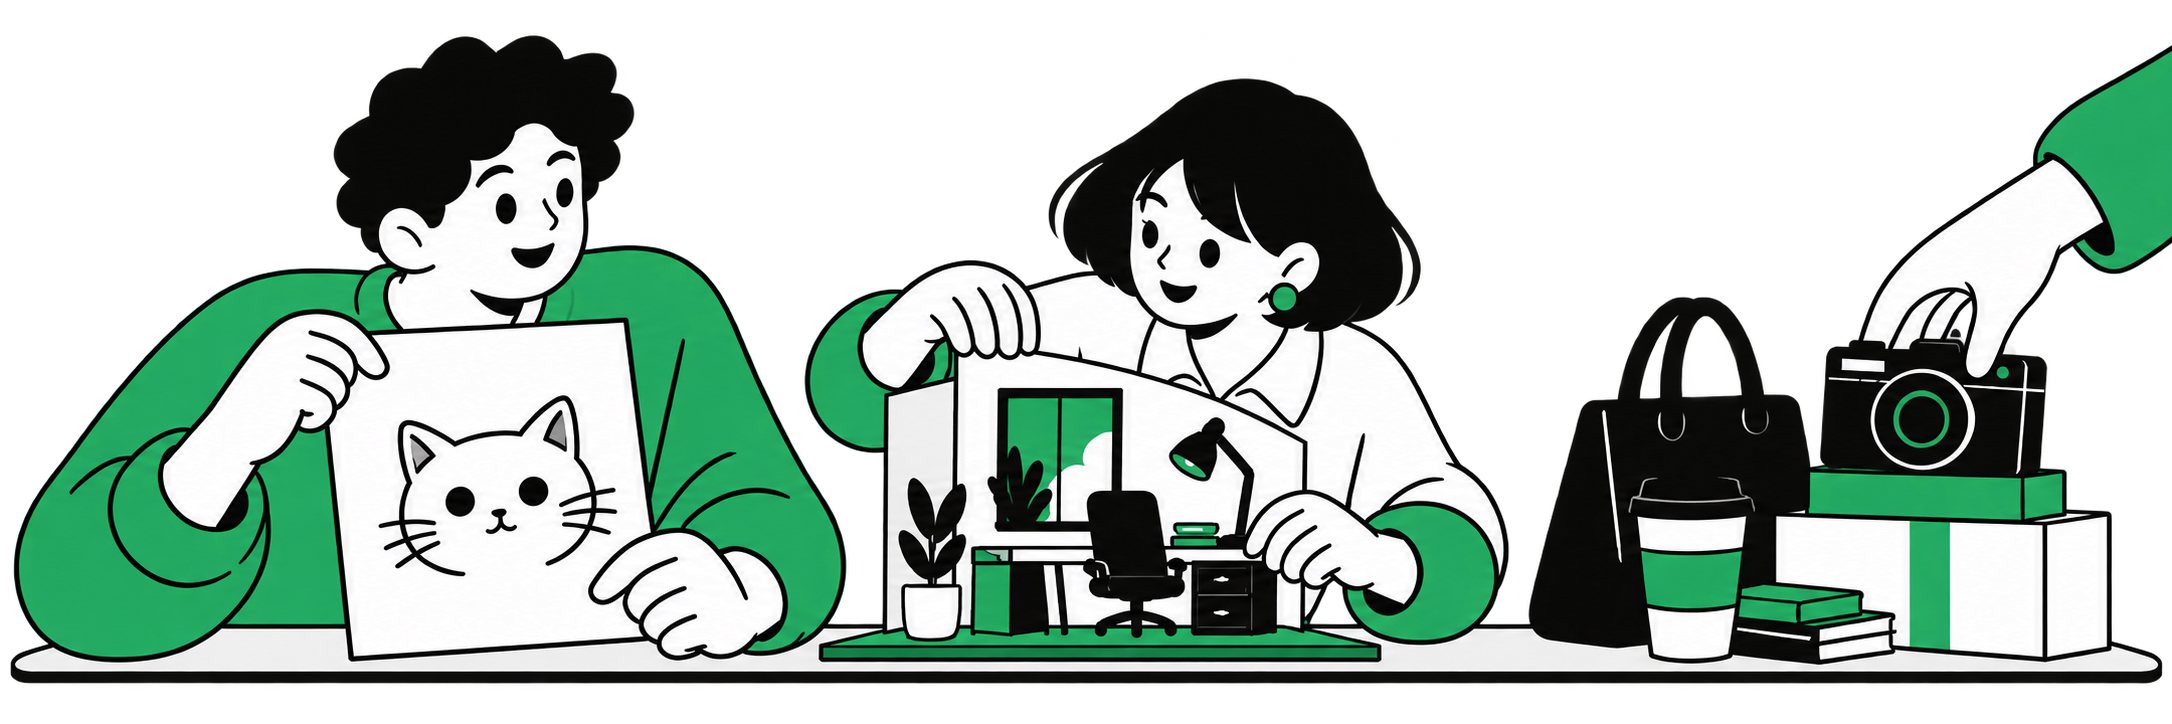
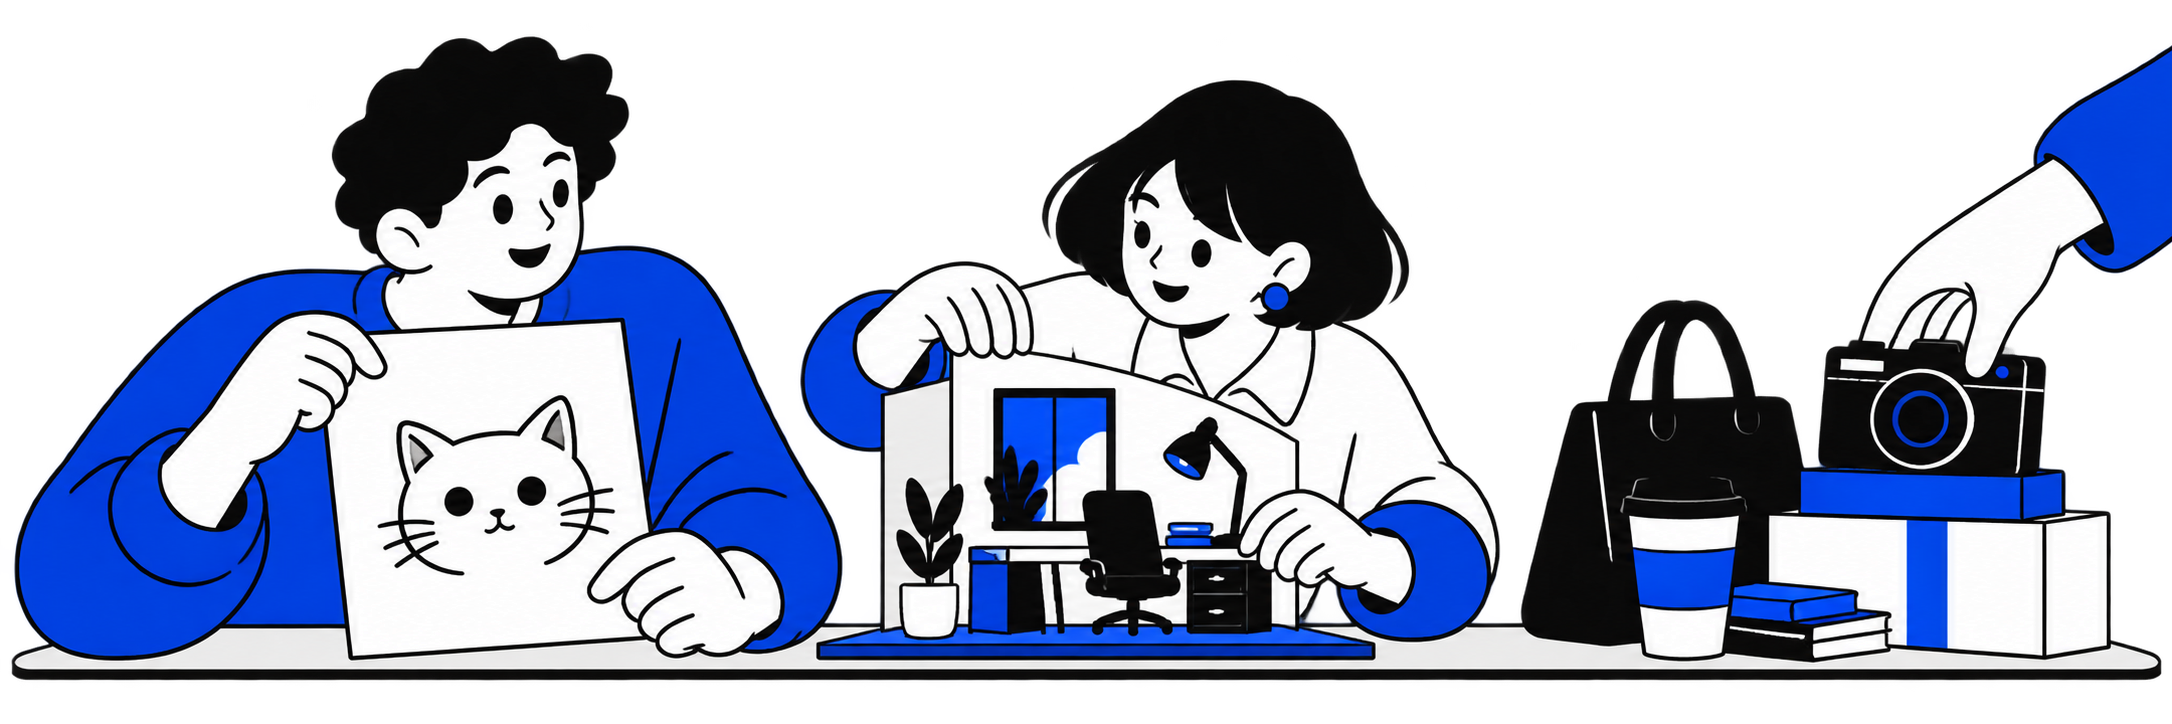
Restore cobalt-blue default and add prior slide case gallery

diff --git a/README.md b/README.md
@@ -6,7 +6,18 @@
 
 ## 先看实际效果
 
-下面三张是实际幻灯片的渲染截图，来自默认角色样页，展示的是完成排版后的页面。README 中的图片本身是静态预览。
+### 蓝色整套案例：AI 视频入门
+
+默认配色为钴蓝 `#1246F2`，配套母图、提示词与主题配置同步采用蓝色。下面从之前制作的16页稿中选出9页组成案例图组；只展示成品页面，没有发布原始账号界面、个人 IP 或真人照片。案例是历史实际输出，保留当时版式，并非所有页面都采用当前最新布局规则。
+
+![蓝色PPT案例九页图组](docs/images/blue-case/overview.png)
+
+[查看9页大图与案例说明](docs/blue-case.md)。正文、数字、框线在制作时使用原生对象；仓库里的预览图为静态展示。
+
+### 绿色配色示例
+
+
+下面三张是此前绿色主题下实际幻灯片的渲染截图，来自内置角色样页，展示的是完成排版后的页面。README 中的图片本身是静态预览。
 
 ### 大数字与内容分组
 
@@ -22,11 +33,11 @@
 
 ### 截图、样机与对话标注
 
-真实页面截图按比例铺满薄 MacBook 外框，对话框、关键词高亮和箭头引导检查重点，角色从页边进入。
+本项目样页截图按比例铺满薄 MacBook 外框，对话框、关键词高亮和箭头引导检查重点，角色从页边进入。
 
 ![MacBook 截图与角色对话标注](docs/images/03-screenshot-and-callout.jpg)
 
-这些样页展示默认 2D 插画路线。自定义 IP、3D 和真人模式的效果取决于所用生图模型、参考素材与目标工具；本页未提供这几种路线的公开成品示例。
+这些样页展示内置 2D 插画路线；绿色是配色示例，当前无输入默认色为蓝色。自定义 IP、3D 和真人模式的效果取决于所用生图模型、参考素材与目标工具；本页未提供这几种路线的公开成品示例。
 
 ## 安装
 
@@ -57,7 +68,7 @@ https://github.com/Kianzzz/zhouxing-ip-ppt
 ## 能做什么
 
 - **按内容选布局**：大数字、图文交错、多框分组、比较、对话、设备截图；支持全身、半身、近景、局部与多人互动。
-- **按主色建立配色**：优先用户指定，否则取角色最大面积彩色主色，配合同色深浅阶及中性色；无输入时用内置草木绿。
+- **按主色建立配色**：优先用户指定，否则取角色最大面积彩色主色，配合同色深浅阶及中性色；无输入时用内置钴蓝 `#1246F2`。
 - **设计图文关系**：为元素建立对齐对应；角色可扶框、指认、遮挡或有意出血，动作须解释本页内容。
 - **保留可编辑结构**：文字、数字、形状和标注为原生元素；角色与截图可移动、缩放和替换，图片内部并非逐部位可编辑。
 - **套入真实截图**：内置 iPhone 与薄屏 MacBook 外框，默认铺满，支持源裁切和标注坐标映射。

diff --git a/references/design-system.md b/references/design-system.md
@@ -4,7 +4,7 @@
 
 ## 角色驱动的色板与背景节奏
 
-色板按“用户明确指定 → 角色可见区域中面积最大的彩色主色 → 内容与视觉参考 → 无输入时的内置绿系”选择。`assets/default-theme.json` 的草木绿 `#28A85B` 仅是无角色/配色输入的2D默认候选。蓝衣真人可用蓝色作为文字、背景和场景的连接色，不给人物强行换衣，也不把真实截图染色。分析时排除透明背景、参考板底色、肤色与黑白灰，将光影造成的近似色归并到同一色相家族；只从最大面积彩色家族取主色。多人或多色IP也遵循这一依据，不从花朵、腮红等小面积细节追加辅助色。无明显彩色区域时用中性色并按内容/参考选一个强调色。记录所选区域和主色依据，不把视觉估计说成精确像素占比。
+色板按“用户明确指定 → 角色可见区域中面积最大的彩色主色 → 内容与视觉参考 → 无输入时的内置蓝系”选择。`assets/default-theme.json` 的钴蓝 `#1246F2` 仅是无角色/配色输入的2D默认候选。蓝衣真人可用蓝色作为文字、背景和场景的连接色，不给人物强行换衣，也不把真实截图染色。分析时排除透明背景、参考板底色、肤色与黑白灰，将光影造成的近似色归并到同一色相家族；只从最大面积彩色家族取主色。多人或多色IP也遵循这一依据，不从花朵、腮红等小面积细节追加辅助色。无明显彩色区域时用中性色并按内容/参考选一个强调色。记录所选区域和主色依据，不把视觉估计说成精确像素占比。
 
 默认从单一主色建立深浅阶，搭配白、近黑与中性灰；标题/正文优先近黑，强调用主色，浅面用同色系低饱和色。不要把肤色转成米粉底、轮廓色转成棕色正文，再混入另一个橄榄色。需要互补色时必须有内容或用户依据，不能因图片里存在就采入。深底可用主色深阶，正文反白，不机械复制图片的全部颜色。颜色数值在项目中固定；字号较小的文字用足够深浅反差，明亮色主要用于大字、图形或少量重点。摄影角色的衣服也可只承担辅助色，不必全页同色。
 
@@ -90,7 +90,7 @@
 
 ## 整套版式组织
 
-按页面的信息关系选择构图，以下是可组合的语法，不是每套必须集齐的配额；字体、页数和配色按角色与内容确定；绿系仅作无输入时的默认候选，不固定宋体或16页。
+按页面的信息关系选择构图，以下是可组合的语法，不是每套必须集齐的配额；字体、页数和配色按角色与内容确定；蓝系仅作无输入时的默认候选，不固定宋体或16页。
 
 | 页面任务 | 图文关系与景别 | 原生信息组织 |
 |---|---|---|

diff --git a/references/character-workflow.md b/references/character-workflow.md
@@ -2,7 +2,7 @@
 
 ## 默认风格与用户身份
 
-默认 `assets/default-style-reference.png` 是候选编辑插画语言/人物参考：黑白与锚点草木绿 `#28A85B`、概括比例、宽阔轮廓、白纸肤色、简洁五官、稀少线条、平涂。它不是用户已批准的 IP，不把参考图中的两人永远绑定到每页。默认人物可为卷发绿衣创作者、短发白衣协作者，也可按内容选动物/场景主角。
+默认 `assets/default-style-reference.png` 是候选编辑插画语言/人物参考：黑白与钴蓝 `#1246F2`、概括比例、宽阔轮廓、白纸肤色、简洁五官、稀少线条、平涂。它不是用户已批准的 IP，不把参考图中的两人永远绑定到每页。默认人物可为卷发蓝衣创作者、短发白衣协作者，也可按内容选动物/场景主角。
 
 用户提供卡通/3D/像素图时，保留身份、比例、材质和媒介；真人照片保持写实身份、年龄特征与衣着。场景风格与身份分别控制。多图标注每张的用途（身份/风格/场景），不混淆角色母图与 PPT 风格截图。
 
@@ -47,7 +47,7 @@
 ```text
 资产用于可编辑 PPT，只生成[单人/多人关系/局部/具体场景]，不是整页幻灯片。
 参考图用途：[身份]、[媒介/画风]、[场景]，分别锁定[不变项]。
-配色：[用户指定/角色最大面积彩色主色/参考主题/无输入时内置绿系；只用主色深浅阶与中性色组织新增场景，保留身份原色，不将肤色和细节色扩展成整页色板；色号不印在画面上]。
+配色：[用户指定/角色最大面积彩色主色/参考主题/无输入时内置蓝系；只用主色深浅阶与中性色组织新增场景，保留身份原色，不将肤色和细节色扩展成整页色板；色号不印在画面上]。
 内容含义：[角色做什么、操作/比较/检查哪个对象、这如何解释本页结论；省去角色会损失什么]。
 景别[半身/近景/全身/场景]，人物[人数与关系]，动作[动词、重心、手/物接触、视线]，表情[行动动机与细微变化]，镜头[角度与距离]。
 图形体量：[横向/紧凑/大半身]，方向[描述]，留给原生信息的位置[描述]。

diff --git a/docs/blue-case.md b/docs/blue-case.md
@@ -1,0 +1,43 @@
+# 蓝色PPT案例：AI视频入门
+
+本组来自此前完成的16页演示稿，选取其中9张可公开页面。截图保持原样，未为展示重绘。默认角色、场景与插画由AI生成；未收录含账号界面的操作截图。
+
+这是既有案例，展示图文关系、景别和信息密度；不是当前每项规则的强制模板，也不保证其他 Agent 自动复现相同效果。
+
+[返回首页](../README.md)
+
+## 原稿第1页 · 主题引入
+
+![主题引入](images/blue-case/slide-01.png)
+
+## 原稿第3页 · 内容方向
+
+![内容方向](images/blue-case/slide-03.png)
+
+## 原稿第4页 · 对等角色比较
+
+![对等角色比较](images/blue-case/slide-04.png)
+
+## 原稿第5页 · 剧本入口
+
+![剧本入口](images/blue-case/slide-05.png)
+
+## 原稿第7页 · 角色、场景与道具
+
+![角色、场景与道具](images/blue-case/slide-07.png)
+
+## 原稿第10页 · 流程与手部局部
+
+![流程与手部局部](images/blue-case/slide-10.png)
+
+## 原稿第12页 · 返修方法与检查动作
+
+![返修方法与检查动作](images/blue-case/slide-12.png)
+
+## 原稿第15页 · 参考结构与角色变化
+
+![参考结构与角色变化](images/blue-case/slide-15.png)
+
+## 原稿第16页 · 收束与角色扶沿
+
+![收束与角色扶沿](images/blue-case/slide-16.png)
